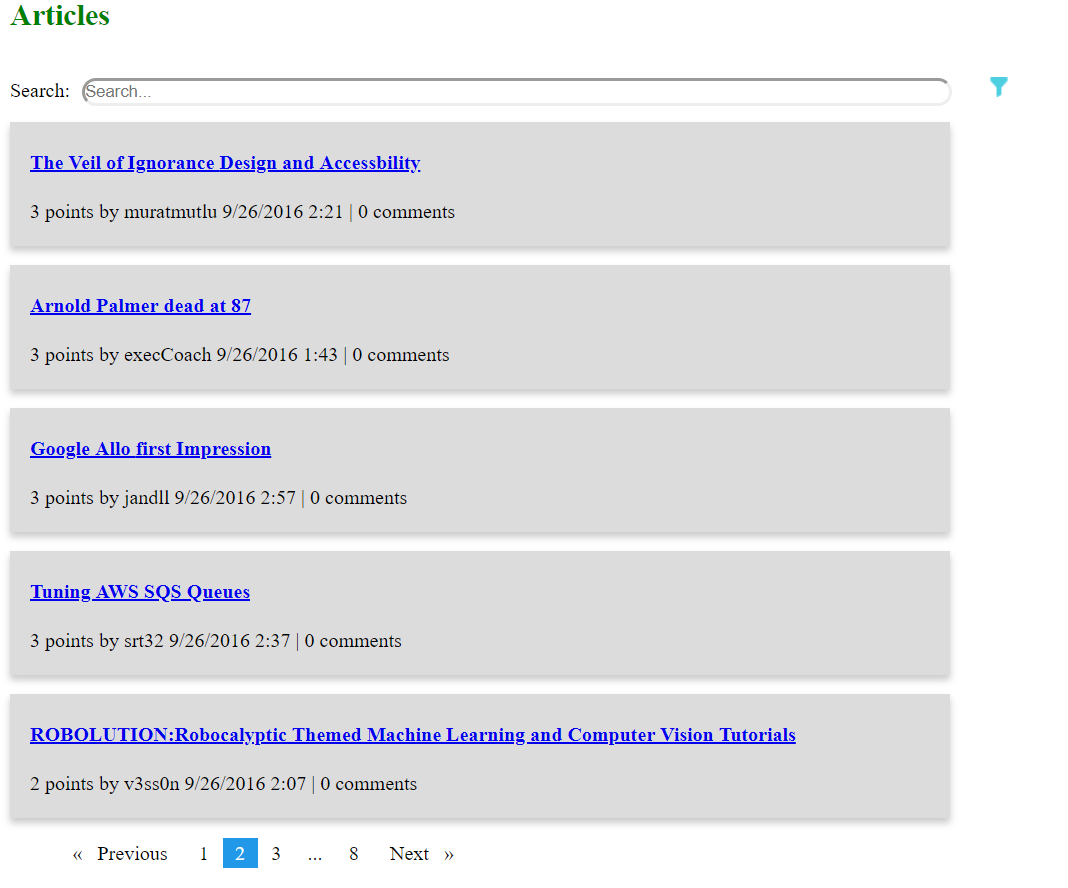
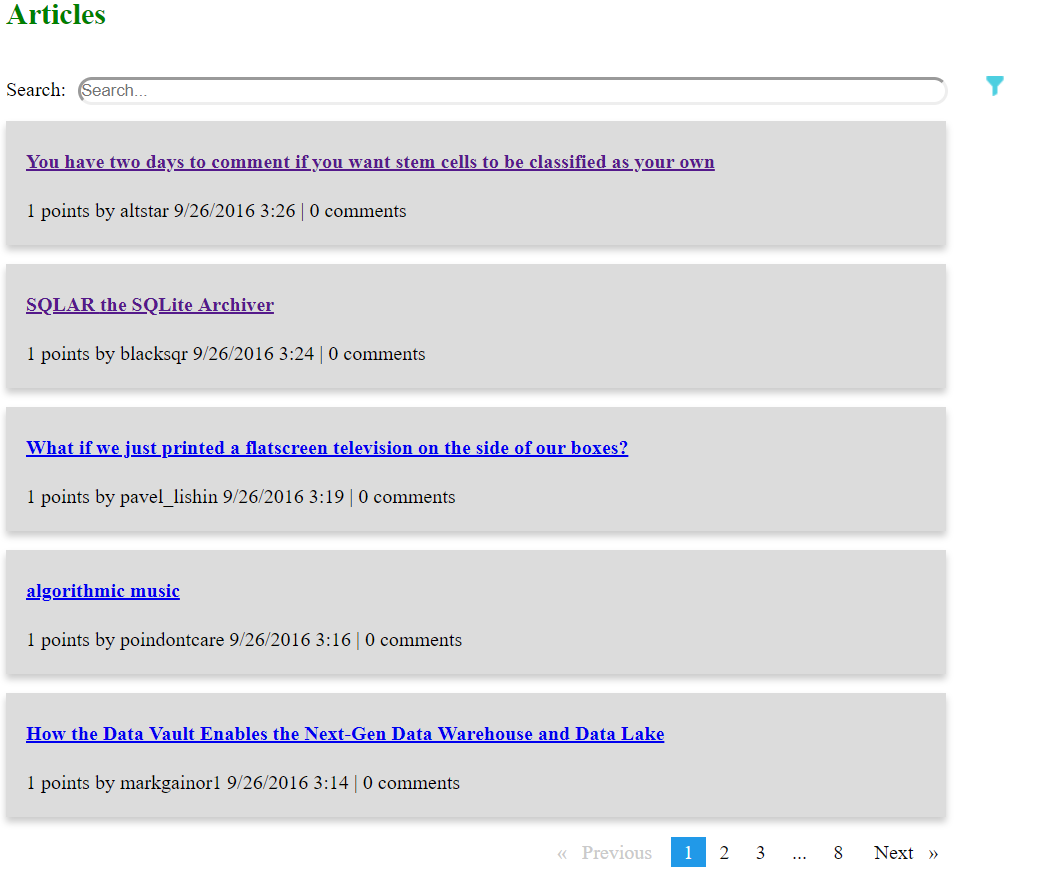
file

diff --git a/src/app/app.component.html b/src/app/app.component.html
@@ -39,11 +39,13 @@ Search:<input class="mainsearch" [(ngModel)]="query" placeholder="Search..." />
 </div>
 </div>
 </div>
+<div class="paginate">
 <pagination-controls (pageChange)="page = $event" id="1"
                       maxSize="5"
                       directionLinks="true"
                       autoHide="true">
 </pagination-controls>
+</div>
 
 
 

diff --git a/src/app/app.component.css b/src/app/app.component.css
@@ -63,3 +63,6 @@
 .dropdown a:hover {background-color: #ddd}
 
 .show {display:block;}
+.paginate{
+	    margin-left: 26%;
+}
